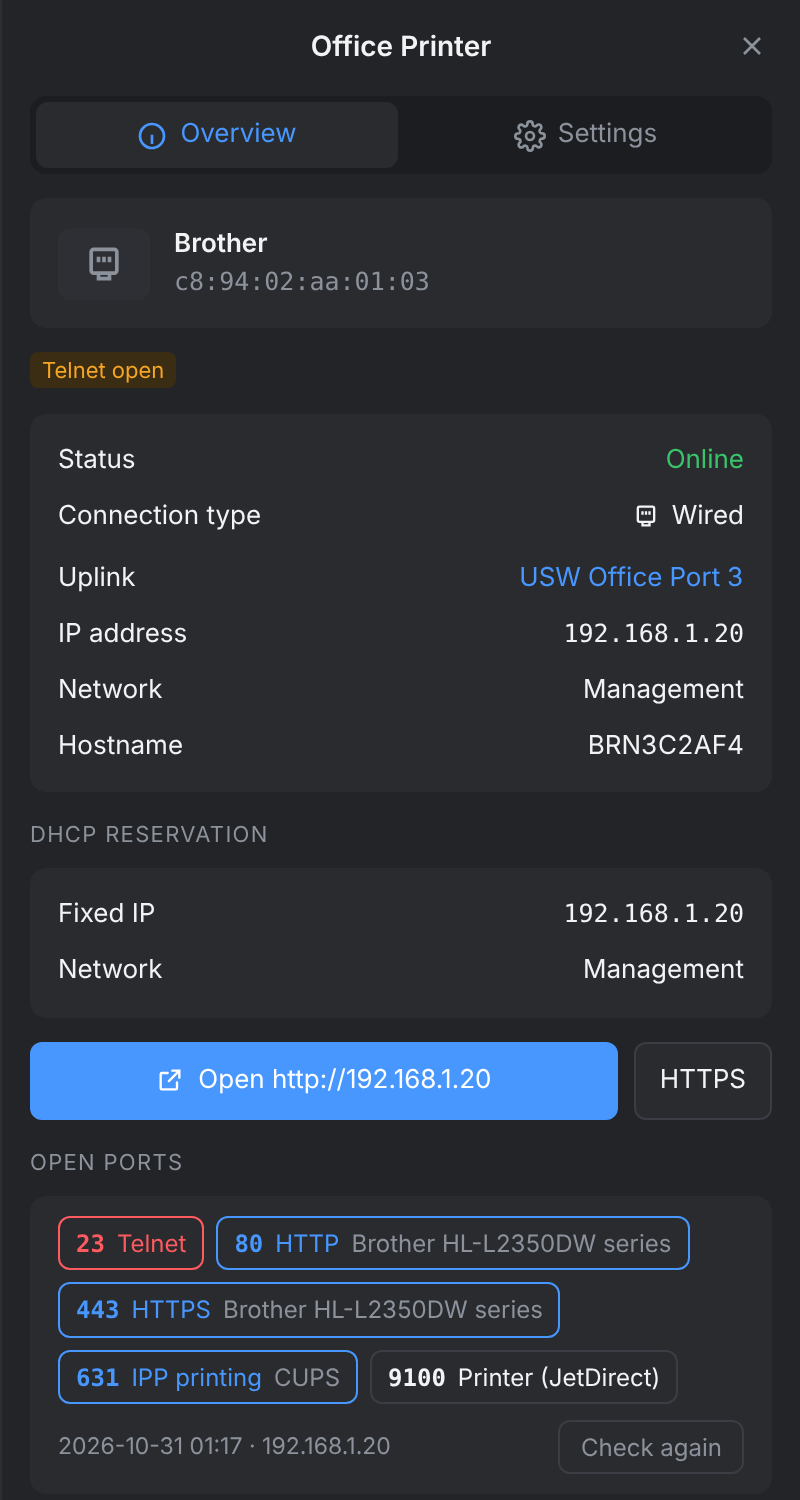
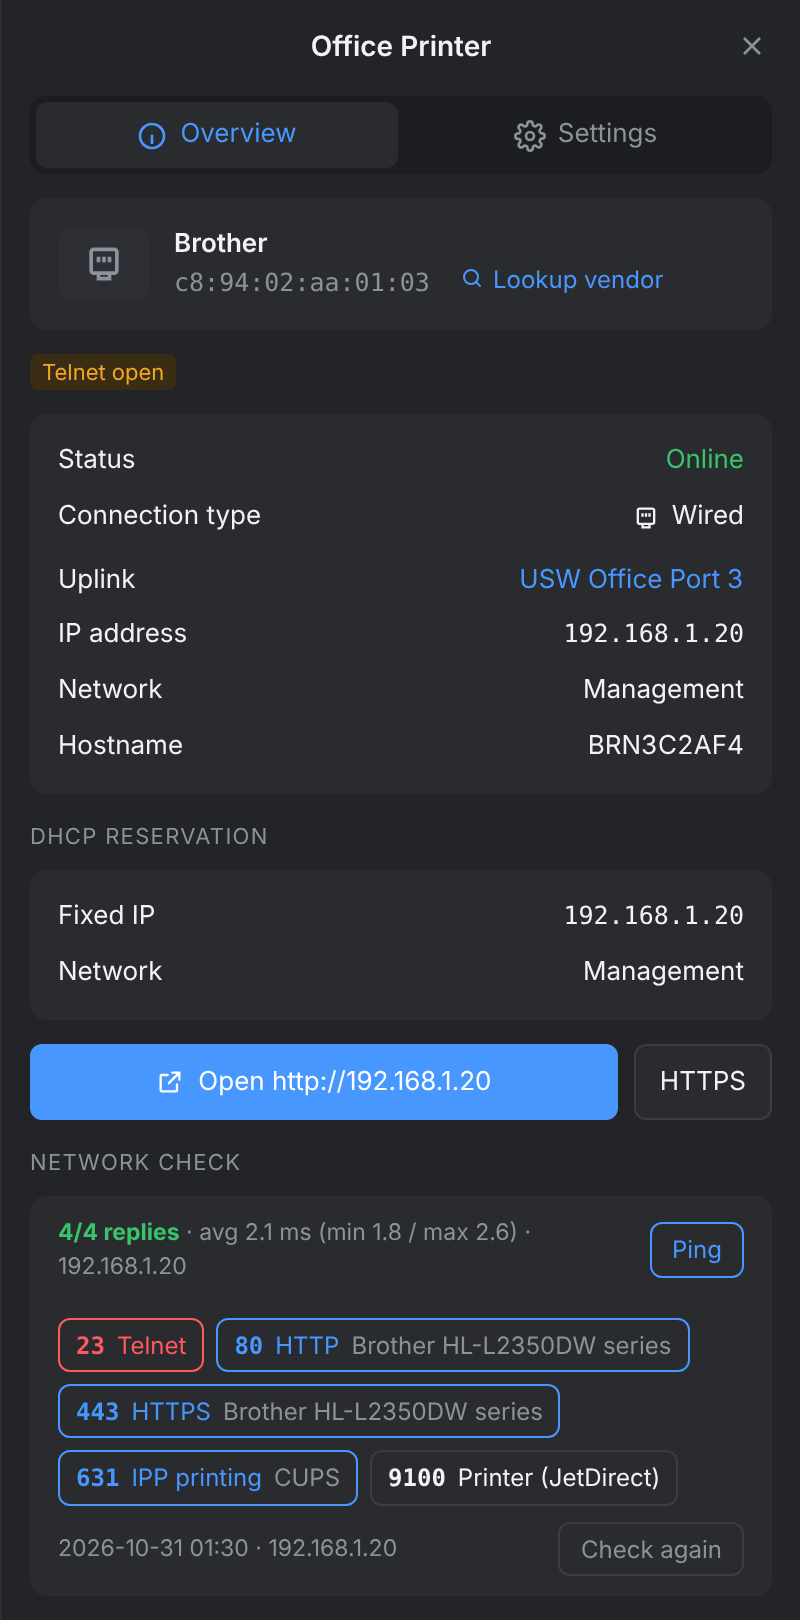
1.12.1: vendor lookup and ping
Claude-Session: https://claude.ai/code/session_01Qq55cKasRq5dm39rxnrsJV

diff --git a/dhcp_reservations/app/static/index.html b/dhcp_reservations/app/static/index.html
@@ -271,6 +271,8 @@ dialog#dlgPlan::backdrop,dialog#dlgRules::backdrop{background:rgba(8,10,14,.55)}
 .plan-legend .pc:hover{outline:none}
 .rule-row{display:grid;grid-template-columns:130px 1fr 220px 34px;gap:8px;align-items:center;margin-bottom:8px}
 .rule-row input,.rule-row select{width:100%}
+.oui-link{display:inline-flex;align-items:center;gap:4px;margin-left:8px;font:12px Inter,system-ui,sans-serif;color:var(--accent);text-decoration:none}
+.oui-link:hover{text-decoration:underline}
 .ports{padding:10px 14px;display:flex;flex-direction:column;gap:8px}
 .port-list{display:flex;flex-wrap:wrap;gap:6px}
 .pchip{display:inline-flex;align-items:baseline;gap:6px;border:1px solid var(--line-strong);border-radius:6px;padding:4px 8px;font-size:12px;color:var(--fg);text-decoration:none;max-width:100%}
@@ -710,7 +712,7 @@ const COLS = [
   { key: "name", label: "Name", val: c => (c.name || c.hostname || c.mac || "").toLowerCase(), fval: c => [c.name, c.hostname].join(" "),
     td: c => `<div class="nm"><span class="dev ${c.is_device ? "ud" : ""} ${c.icon_id ? "pic" : ""}">${iconHtml(c)}</span>${inlineOn(c) ? `<input class="ie" data-f="name" data-k="${esc(keyOf(c))}" value="${esc(c.name)}" placeholder="${esc(c.hostname || c.device_name || "Name")}" aria-label="Name of ${esc(c.mac)}">` : `<span class="t">${esc(c.name || c.hostname || "Unknown")}</span>`}${c.is_device ? `<span class="h">${esc(c.name && c.device_name && c.device_name.trim() !== c.name ? c.device_name + " · " : "")}${esc(c.device_model)}</span>` : !c.name && c.mac ? `<span class="h">${esc(c.mac.slice(-5))}</span>` : (c.name && c.hostname && c.hostname !== c.name ? `<span class="h">${esc(c.hostname)}</span>` : "")}</div>` },
   { key: "mac", label: "MAC address", val: c => c.mac, td: c => `<span class="mono">${esc(c.mac || "–")}</span>` },
-  { key: "oui", label: "Vendor", val: c => (c.oui || "").toLowerCase(), td: c => esc(c.oui) },
+  { key: "oui", label: "Vendor", val: c => (c.oui || "").toLowerCase(), td: c => esc(c.oui) + (c.oui_src ? ` <span class="muted" title="Looked up via macvendors.com – UniFi does not know this vendor">(lookup)</span>` : "") },
   { key: "conn", label: "Connection type", filter: "select", opts: [["", "All"], ["wifi", "WiFi"], ["wired", "Wired"], ["teleport", "Teleport"]], val: c => c.conn, fval: c => c.conn,
     td: c => `<span class="ctype ${c.conn}">${ICON[c.conn]}${CONN_LABEL[c.conn]}</span>` },
   { key: "uplink", label: "Connection", val: c => connText(c).toLowerCase(), fval: c => connText(c), td: c => esc(connText(c)) },
@@ -872,18 +874,35 @@ function wireGrips() {
 }
 
 // ---------- port check ----------
-const PORTSCAN = { running: null };
+const PORTSCAN = { running: null, pinging: null, ping: {} };
+function pingHtml(c) {
+  const busy = PORTSCAN.pinging === c.mac, r = PORTSCAN.ping[c.mac];
+  const btn = `<button class="btn" type="button" id="btnPing" ${busy ? "disabled" : ""}>${busy ? '<span class="spin"></span> Pinging …' : "Ping"}</button>`;
+  let txt = `<span>Ping ${esc(webIp(c))} (4 × ICMP echo)</span>`;
+  if (r) {
+    const col = r.received === r.sent ? "var(--ok)" : r.received ? "var(--warn)" : "var(--bad)";
+    txt = `<span><b style="color:${col}">${r.received}/${r.sent} replies</b>${r.received ? ` · avg ${r.avg} ms <span class="muted">(min ${r.min} / max ${r.max})</span>` : " · no answer"} · ${esc(r.ip)}</span>`;
+  }
+  return `<div class="foot" style="border-bottom:1px solid var(--line);padding-bottom:8px">${txt}${btn}</div>`;
+}
+async function pingDev(c) {
+  if (PORTSCAN.pinging) return;
+  PORTSCAN.pinging = c.mac; if (state.sel === c) $("#portBox").innerHTML = portsHtml(c);
+  try { PORTSCAN.ping[c.mac] = await api("api/ping", { ip: webIp(c) }); }
+  catch (e) { toast("Ping failed: " + e.message); }
+  finally { PORTSCAN.pinging = null; if (state.sel?.mac === c.mac && $("#portBox")) $("#portBox").innerHTML = portsHtml(state.sel); }
+}
 async function loadScans() { try { state.scans = (await api("api/portscans")).scans || {}; } catch { state.scans = {}; } }
 function portsHtml(c) {
   const sc = state.scans?.[c.mac], ip = webIp(c), busy = PORTSCAN.running === c.mac;
   const btn = `<button class="btn" type="button" id="btnScan" ${busy ? "disabled" : ""}>${busy ? '<span class="spin"></span> Checking …' : sc ? "Check again" : "Check ports"}</button>`;
-  if (!sc) return `<div class="foot"><span>Checks about 30 common TCP ports on ${esc(ip)} from Home Assistant's network.${c.online ? "" : " The device is offline."}</span>${btn}</div>`;
+  if (!sc) return pingHtml(c) + `<div class="foot"><span>Checks about 30 common TCP ports on ${esc(ip)} from Home Assistant's network.${c.online ? "" : " The device is offline."}</span>${btn}</div>`;
   const chips = sc.open.map(o => {
     const inner = `<b>${o.port}</b><span>${esc(o.service)}</span>${o.title ? `<span class="t" title="${esc(o.title)}">${esc(o.title)}</span>` : ""}`;
     return o.scheme ? `<a class="pchip" href="${o.scheme}://${esc(sc.ip)}${(o.scheme === "http" && o.port === 80) || (o.scheme === "https" && o.port === 443) ? "" : ":" + o.port}/" target="_blank" rel="noopener noreferrer" title="Open in a new tab">${inner}</a>`
       : `<span class="pchip ${o.port === 23 || o.port === 21 ? "bad" : ""}" title="${o.port === 23 || o.port === 21 ? "Unencrypted protocol" : ""}">${inner}</span>`;
   }).join("");
-  return `<div class="port-list">${chips || '<span class="muted">No open ports found.</span>'}</div>
+  return pingHtml(c) + `<div class="port-list">${chips || '<span class="muted">No open ports found.</span>'}</div>
     <div class="foot"><span>${isoDateTime(sc.ts)} · ${esc(sc.ip)}${sc.ip !== ip ? ` <span style="color:var(--warn)">(now ${esc(ip)})</span>` : ""}</span>${btn}</div>`;
 }
 async function scanPorts(c) {
@@ -1009,6 +1028,7 @@ async function load() {
     const d = await api("api/snapshot");
     state.networks = d.networks; state.netById = Object.fromEntries(d.networks.map(n => [n.id, n]));
     state.aps = d.aps || []; state.clients = d.clients; state.fetchedAt = d.fetched_at;
+    try { const v = (await api("api/vendors")).vendors || {}; for (const c of state.clients) if (!c.oui && c.mac && v[c.mac.slice(0, 8)]) { c.oui = v[c.mac.slice(0, 8)]; c.oui_src = "lookup"; } } catch {}
     computeWarnings(); if (typeof computeBaseCats === "function") computeBaseCats(); buildHead(); $("#banner").hidden = true;
     if (state.sel) { const again = state.clients.find(c => keyOf(c) === keyOf(state.sel)); again ? (state.sel = again, renderInfo()) : closePanel(); }
   } catch (e) { $("#banner").textContent = "Could not load data: " + e.message; $("#banner").hidden = false; }
@@ -1037,7 +1057,7 @@ function renderInfo() {
   const n = net(c.network_id), rn = net(c._resNet);
   const kv = (k, v, cls = "") => v === "" || v == null ? "" : `<dt>${k}</dt><dd class="${cls}">${v}</dd>`;
   $("#paneInfo").innerHTML = `
-    <div class="card devcard"><div class="big ${c.icon_id ? "pic" : ""}">${iconHtml(c, true)}</div><div><div class="v">${esc(c.is_device ? `${KIND_LABEL[c.device_kind]} · ${c.device_model}` : (c.oui || CONN_LABEL[c.conn]))}</div><div class="mono muted">${esc(c.mac || "no MAC")}</div></div></div>
+    <div class="card devcard"><div class="big ${c.icon_id ? "pic" : ""}">${iconHtml(c, true)}</div><div><div class="v">${esc(c.is_device ? `${KIND_LABEL[c.device_kind]} · ${c.device_model}` : (c.oui || CONN_LABEL[c.conn]))}</div><div class="mono muted">${esc(c.mac || "no MAC")}${c.mac ? (isRandomMac(c.mac) && !c.is_device ? ` <span class="muted" style="font-family:inherit;font-size:11px" title="Locally administered (random / private) address – it has no registered vendor">· random MAC</span>` : ` <a class="oui-link" href="https://maclookup.app/macaddress/${esc(c.mac.slice(0, 8).replace(/:/g, "").toUpperCase())}" target="_blank" rel="noopener noreferrer" title="Look up the vendor of ${esc(c.mac.slice(0, 8))} on maclookup.app (only the vendor prefix is sent)"><svg width="12" height="12" viewBox="0 0 24 24" fill="none" stroke="currentColor" stroke-width="2" stroke-linecap="round" aria-hidden="true"><circle cx="11" cy="11" r="7"/><path d="m20 20-4-4"/></svg>Lookup vendor</a>`) : ""}</div>${c.oui_src ? `<div class="muted" style="font-size:11px">Vendor from macvendors.com</div>` : ""}</div></div>
     ${c._warn.length ? `<div>${c._warn.map(w => `<span class="tag ${w[0]}">${esc(w[1])}</span>`).join("")}</div>` : ""}
     <div class="card"><dl class="kv" style="margin:0">
       ${c.is_device ? kv("UniFi name", esc(c.device_name)) : ""}
@@ -1062,11 +1082,11 @@ function renderInfo() {
     </dl></div>
     ${webIp(c) ? `<div class="openrow"><a class="btn primary" href="http://${esc(webIp(c))}/" target="_blank" rel="noopener noreferrer" title="Open the device's web interface in a new tab"><svg width="14" height="14" viewBox="0 0 24 24" fill="none" stroke="currentColor" stroke-width="2" stroke-linecap="round" aria-hidden="true"><path d="M14 4h6v6M20 4l-9 9M18 14v5a1 1 0 0 1-1 1H5a1 1 0 0 1-1-1V7a1 1 0 0 1 1-1h5"/></svg>Open http://${esc(webIp(c))}</a><a class="btn" href="https://${esc(webIp(c))}/" target="_blank" rel="noopener noreferrer" title="Open with HTTPS">HTTPS</a></div>${!c.online ? `<p class="hint">The device is offline – the page may not load.</p>` : ""}` : ""}
     ${c.mac && !c.is_device && c.conn === "wired" && !c.online ? `<button class="btn" type="button" id="btnWol" style="width:100%"><svg width="14" height="14" viewBox="0 0 24 24" fill="none" stroke="currentColor" stroke-width="2" stroke-linecap="round" style="vertical-align:-2px;margin-right:6px"><path d="M12 2v10M18.4 6.6a9 9 0 1 1-12.8 0"/></svg>Wake on LAN</button>` : ""}
-    ${c.mac && webIp(c) ? `<div class="sec-title">Open ports</div><div class="card ports" id="portBox">${portsHtml(c)}</div>` : ""}
+    ${c.mac && webIp(c) ? `<div class="sec-title">Network check</div><div class="card ports" id="portBox">${portsHtml(c)}</div>` : ""}
     ${!c.mac ? `<p class="hint">Teleport clients get their address from the VPN and cannot have a DHCP reservation.</p>` : ""}
     ${c.mac ? `<div class="sec-title">History</div><div class="card hist" id="histBox"><span class="muted"><span class="spin"></span> Loading …</span></div>` : ""}`;
   if (c.mac) loadHistory(c);
-  $("#portBox")?.addEventListener("click", e => { if (e.target.closest("#btnScan")) scanPorts(c); });
+  $("#portBox")?.addEventListener("click", e => { if (e.target.closest("#btnScan")) scanPorts(c); else if (e.target.closest("#btnPing")) pingDev(c); });
   $("#btnWol")?.addEventListener("click", async e => {
     const b = e.currentTarget, ip = c.use_fixedip ? c.fixed_ip : c.ip, n = net(c._resNet) || net(c.network_id) || state.networks.find(x => inSubnet(ip, x.subnet));
     b.disabled = true;

diff --git a/dhcp_reservations/app/server.py b/dhcp_reservations/app/server.py
@@ -4,6 +4,7 @@ Talks directly to the UniFi OS API of the gateway (Python standard library only)
 """
 import ipaddress
 import socket
+import struct
 import json
 import os
 import re
@@ -27,6 +28,8 @@ AUTO_RETENTION_DEFAULT = 30
 KNOWN_PATH = os.environ.get("KNOWN_PATH", "/data/known_devices.json")
 RULES_PATH = os.environ.get("RULES_PATH", "/data/rules.json")
 SCANS_PATH = os.environ.get("SCANS_PATH", "/data/portscans.json")
+VENDORS_PATH = os.environ.get("VENDORS_PATH", "/data/vendors.json")
+VENDOR_API = os.environ.get("VENDOR_API", "https://api.macvendors.com/")
 SCAN_LOCK = threading.Lock()
 WATCH_INTERVAL = int(os.environ.get("WATCH_INTERVAL", "120"))
 
@@ -714,9 +717,9 @@ def _net_matches(net, wanted):
     return any(w in keys for w in wanted)
 
 
-def check_new_devices(api):
+def check_new_devices(api, snap=None):
     """Remembers every client MAC; notifies Home Assistant about MACs it has not seen before."""
-    snap = build_snapshot(api)
+    snap = snap or build_snapshot(api)
     nets = {n["id"]: n for n in snap["networks"]}
     known = _read_json(KNOWN_PATH, None)
     clients = [c for c in snap["clients"] if c.get("mac") and not c.get("is_device")]
@@ -759,14 +762,69 @@ def check_new_devices(api):
     return out
 
 
+# ---------------------------------------------------------------- vendor lookup (only the 3-byte OUI is sent)
+def vendor_lookup_enabled():
+    try:
+        return load_options().get("vendor_lookup", True) is not False
+    except (OSError, ValueError):
+        return True
+
+
+def fill_vendors(snap, limit=40):
+    """Looks up the vendor of OUIs UniFi does not know (macvendors.com, max. 1 request per second)."""
+    if not vendor_lookup_enabled():
+        return 0
+    cache = _read_json(VENDORS_PATH, {})
+    now, todo = int(time.time()), []
+    for c in snap["clients"]:
+        mac = c.get("mac") or ""
+        if not mac or c.get("oui") or c.get("is_device") or is_random_mac(mac):
+            continue
+        oui = mac[:8]
+        hit = cache.get(oui)
+        if hit and (hit.get("vendor") or now - hit.get("ts", 0) < 30 * 86400):
+            continue
+        if oui not in todo:
+            todo.append(oui)
+    done = 0
+    for oui in todo[:limit]:
+        vendor = None
+        try:
+            req = urllib.request.Request(VENDOR_API + oui, headers={"User-Agent": "clients-reservations-addon"})
+            vendor = urllib.request.urlopen(req, timeout=10).read().decode("utf-8", "replace").strip()[:80]
+        except urllib.error.HTTPError as e:
+            if e.code == 404:
+                vendor = ""
+            elif e.code == 429:
+                log("Vendor lookup: rate limited, trying again later")
+                break
+        except (urllib.error.URLError, OSError) as e:
+            log("Vendor lookup not reachable:", e)
+            break
+        if vendor is not None:
+            cache[oui] = {"vendor": vendor, "ts": now}
+            done += 1
+        time.sleep(1.1)
+    if done:
+        _write_json(VENDORS_PATH, cache)
+        log("Vendor lookup:", done, "prefixes")
+    return done
+
+
+def load_vendors():
+    return {"vendors": {k: v.get("vendor", "") for k, v in _read_json(VENDORS_PATH, {}).items() if v.get("vendor")}}
+
+
 def watch_worker():
     time.sleep(20)
     while True:
         try:
             if API:
-                check_new_devices(API)
+                snap = build_snapshot(API)
+                check_new_devices(API, snap)
+                fill_vendors(snap)
         except Exception as e:  # noqa: BLE001
-            log("New-device check failed:", e)
+            log("Background check failed:", e)
         time.sleep(WATCH_INTERVAL)
 
 
@@ -875,6 +933,73 @@ def port_scan(body):
 
 def load_scans():
     return {"scans": _read_json(SCANS_PATH, {})}
+
+
+# ---------------------------------------------------------------- ping (ICMP echo)
+def _icmp_checksum(data):
+    if len(data) % 2:
+        data += b"\0"
+    s = sum(int.from_bytes(data[i:i + 2], "big") for i in range(0, len(data), 2))
+    s = (s >> 16) + (s & 0xFFFF)
+    s += s >> 16
+    return ~s & 0xFFFF
+
+
+def ping(body, count=4, timeout=1.0):
+    ip = str(body.get("ip") or "")
+    try:
+        if ipaddress.ip_address(ip).version != 4:
+            raise ValueError
+    except ValueError:
+        raise UnifiError("Invalid IP address.", 400)
+    try:
+        sock = socket.socket(socket.AF_INET, socket.SOCK_RAW, socket.IPPROTO_ICMP)
+        raw = True
+    except PermissionError:
+        try:  # unprivileged ICMP (needs net.ipv4.ping_group_range)
+            sock = socket.socket(socket.AF_INET, socket.SOCK_DGRAM, socket.IPPROTO_ICMP)
+            raw = False
+        except OSError:
+            raise UnifiError("Ping is not permitted in this container.", 500)
+    ident = os.getpid() & 0xFFFF
+    times = []
+    with sock:
+        sock.settimeout(timeout)
+        for seq in range(count):
+            payload = struct.pack("!d", time.time()) + b"clients-reservations"
+            hdr = struct.pack("!BBHHH", 8, 0, 0, ident, seq)
+            pkt = struct.pack("!BBHHH", 8, 0, _icmp_checksum(hdr + payload), ident, seq) + payload
+            t0 = time.perf_counter()
+            try:
+                sock.sendto(pkt, (ip, 0))
+            except OSError as e:
+                raise UnifiError(f"Ping failed: {e}", 502)
+            got = None
+            while True:
+                left = timeout - (time.perf_counter() - t0)
+                if left <= 0:
+                    break
+                sock.settimeout(left)
+                try:
+                    data, addr = sock.recvfrom(2048)
+                except socket.timeout:
+                    break
+                if addr[0] != ip:
+                    continue
+                icmp = data[(data[0] & 0x0F) * 4:] if raw else data
+                if len(icmp) >= 8 and icmp[0] == 0:
+                    rseq = struct.unpack("!H", icmp[6:8])[0]
+                    if rseq == seq and (not raw or struct.unpack("!H", icmp[4:6])[0] == ident):
+                        got = (time.perf_counter() - t0) * 1000
+                        break
+            times.append(round(got, 2) if got is not None else None)
+            if seq < count - 1:
+                time.sleep(max(0.0, 0.3 - (time.perf_counter() - t0)))
+    ok = [t for t in times if t is not None]
+    res = {"ip": ip, "sent": count, "received": len(ok), "times": times,
+           "min": min(ok) if ok else None, "avg": round(sum(ok) / len(ok), 2) if ok else None, "max": max(ok) if ok else None}
+    log("Ping", ip, f"{len(ok)}/{count}")
+    return res
 
 
 # ---------------------------------------------------------------- wake on LAN
@@ -991,6 +1116,10 @@ class Handler(BaseHTTPRequestHandler):
                 return self._send(200, create_version(API, b.get("kind", "manual"), b.get("label", ""), self._user()))
             if method == "POST" and path.endswith("/api/version_settings"):
                 return self._send(200, save_settings(self._json_body()))
+            if method == "POST" and path.endswith("/api/ping"):
+                return self._send(200, ping(self._json_body()))
+            if method == "GET" and path.endswith("/api/vendors"):
+                return self._send(200, load_vendors())
             if method == "POST" and path.endswith("/api/portscan"):
                 return self._send(200, port_scan(self._json_body()))
             if method == "GET" and path.endswith("/api/portscans"):

diff --git a/README.md b/README.md
@@ -37,8 +37,8 @@ versions you can compare and restore.
 | **IP plan** | Utilization per network (fixed / in pool / dynamic / free outside the pool) and an address grid that shows conflicts at a glance. Click a free address to reserve it. |
 | **New-device alerts** | A Home Assistant notification and the event `clients_reservations_new_device` when a MAC appears that was never seen before – optionally only for certain networks. |
 | **Network rules** | “Vendor contains Espressif → IoT”: devices in the wrong network are flagged. |
-| **Port check** | On-demand check of ~30 common TCP ports per device; web UIs become links, Telnet/FTP are flagged. |
-| **Housekeeping** | Duplicate names / DNS names, *Inactive* filter (not seen > 30 / 90 / 365 days), hosts-file export, Wake on LAN. |
+| **Ping & port check** | Ping with round-trip times, and an on-demand check of ~30 common TCP ports per device; web UIs become links, Telnet/FTP are flagged. |
+| **Housekeeping** | Vendor lookup for unknown MAC prefixes, duplicate names / DNS names, *Inactive* filter (not seen > 30 / 90 / 365 days), hosts-file export, Wake on LAN. |
 | **Safe bulk changes** | Every bulk action (CSV import, restore, replace subnet, names from HA) saves a version of the current settings first, so you can always go back via *Versions › Restore*. |
 
 ## Screenshots
@@ -72,7 +72,7 @@ versions you can compare and restore.
     <td valign="top"><img src="docs/screenshots/network-rules.png" alt="Network rules"><br><b>Network rules</b> – which devices belong in which network; violations show up as issues.</td>
   </tr>
   <tr>
-    <td valign="top"><img src="docs/screenshots/open-ports.png" alt="Open ports"><br><b>Open ports</b> – web UIs as links with their page title; insecure protocols flagged.</td>
+    <td valign="top"><img src="docs/screenshots/open-ports.png" alt="Open ports"><br><b>Network check</b> – ping, plus open ports: web UIs as links with their page title; insecure protocols flagged.</td>
     <td valign="top"></td>
   </tr>
 </table>
@@ -106,6 +106,7 @@ versions you can compare and restore.
 | `notify_new_devices` | `true` | Notify Home Assistant about devices with a never-seen MAC |
 | `notify_networks` | `[]` | Only watch these networks (names or VLAN IDs); empty = all |
 | `notify_random_mac` | `false` | Also notify about random/private MACs (phones, tablets) |
+| `vendor_lookup` | `true` | Fill unknown vendors via macvendors.com (only the 3-byte prefix is sent, cached) |
 
 **Security notes**
 

diff --git a/dhcp_reservations/DOCS.md b/dhcp_reservations/DOCS.md
@@ -50,7 +50,9 @@ UniFi Network › Client Devices. Every column can be sorted (click the header) 
 - **Network rules** (Actions › Network rules): “Vendor / Name / Hostname contains … → network”. Devices in another network get the issue *Expected in …*.
 - **Export hosts file** (Actions): fixed IPs with local DNS record and a host name derived from the device name.
 - **Wake on LAN:** button for offline wired devices. Uses Home Assistant's `wake_on_lan` service when it is set up (`wake_on_lan:` in configuration.yaml) and additionally sends a magic packet to the subnet broadcast and the device IP. Waking devices in another VLAN only works if the network forwards the packet.
+- **Ping:** *Network check › Ping* sends 4 ICMP echo requests from Home Assistant's network and shows replies and round-trip times.
 - **Open ports:** *Check ports* in the detail panel tests about 30 common TCP ports on the device (on demand, one device at a time, in small batches). Web ports become links with the page title; Telnet and FTP are flagged as issues. The result reflects what Home Assistant's network can reach – from another VLAN it may differ. If UniFi Threat Management (IDS/IPS) is on, it may still log the check.
+- **Vendor lookup:** *Lookup vendor* next to the MAC opens maclookup.app for the vendor prefix. Vendors UniFi does not know are looked up in the background via macvendors.com (option `vendor_lookup`); only the 3-byte prefix is sent and results are cached.
 - **Inactive filter:** not seen for > 30 / 90 / 365 days or never seen.
 - **CSV export** of the current filtered view.
 - **CSV import (bulk):** Actions → *Import CSV*. Required column `MAC`; optional `Name`, `Note`,
@@ -73,6 +75,7 @@ UniFi Network › Client Devices. Every column can be sorted (click the header) 
 | `notify_new_devices` | Notify Home Assistant about devices with a MAC never seen before (default on) |
 | `notify_networks` | Only watch these networks (names or VLAN IDs); empty = all |
 | `notify_random_mac` | Also notify about random/private MACs (default off) |
+| `vendor_lookup` | Fill unknown vendors via macvendors.com (only the vendor prefix is sent; default on) |
 
 Use a dedicated local UniFi account for this add-on rather than sharing one with another
 integration, so the sessions don't log each other out.

diff --git a/dhcp_reservations/CHANGELOG.md b/dhcp_reservations/CHANGELOG.md
@@ -1,5 +1,10 @@
 # Changelog
 
+## 1.12.1 – 2026-10-31
+- **Ping** in the detail panel (section *Network check*, next to the port check): 4 ICMP echos from Home Assistant's network with replies and min / avg / max round-trip time.
+- **Vendor lookup**: the detail panel links the MAC to maclookup.app (*Lookup vendor*, only the vendor prefix is sent); random / private MACs are marked as such instead.
+- Empty vendors are filled in the background via macvendors.com (option `vendor_lookup`, default on): only the 3-byte prefix is sent, max. 1 request per second, results are cached in the add-on. Such vendors show “(lookup)” in the table.
+
 ## 1.12.0 – 2026-10-31
 - **Open ports** in the detail panel: *Check ports* tests about 30 common TCP ports (FTP, SSH, Telnet, HTTP/HTTPS and typical web UI ports such as 5000/5001, 8080, 8123, 8443, MQTT, RTSP, SMB, RDP, VNC, printers …) on demand, from Home Assistant's network. Web ports become links (with the page title); the result is stored per device.
 - New issues *Telnet open* / *FTP open* and the filter *Issues › Insecure ports*.
